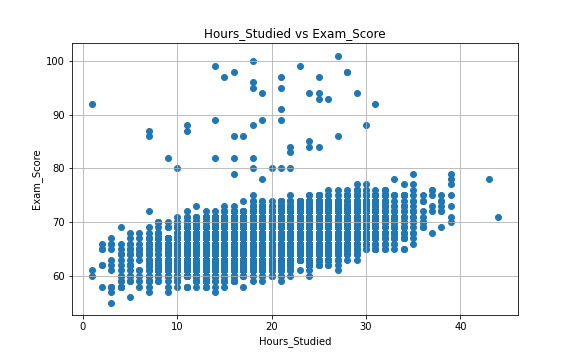
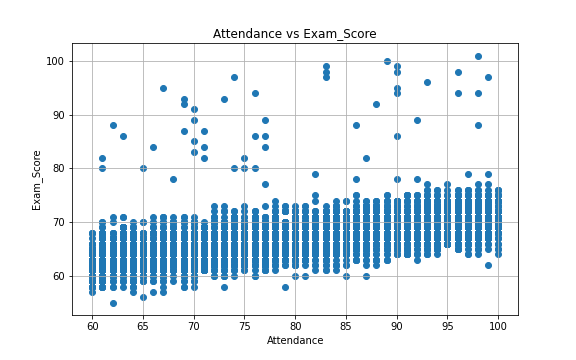
saque algunos comentarios del documento de riesgo

diff --git a/scr/riesgo.py b/scr/riesgo.py
@@ -46,7 +46,6 @@ def detectar_riesgo(df):
     Retorna:
     - DataFrame: El mismo DataFrame con la columna 'perfil_riesgo' (True/False).
     """
-    # Creamos una copia para evitar advertencias de asignación (SettingWithCopyWarning)
     df_resultado = df.copy()
     
     # Calculamos series booleanas para cada una de las 5 condiciones de riesgo
@@ -56,7 +55,6 @@ def detectar_riesgo(df):
     c4 = df_resultado['Attendance'] < 70
     c5 = df_resultado['Motivation_Level'].str.strip() == 'Low'
     
-    # Sumamos las condiciones (True se cuenta como 1, False como 0) fila por fila de manera eficiente
     cantidad_condiciones = c1.astype(int) + c2.astype(int) + c3.astype(int) + c4.astype(int) + c5.astype(int)
     
     # Un estudiante entra en riesgo si cumple al menos 2 de estas condiciones
